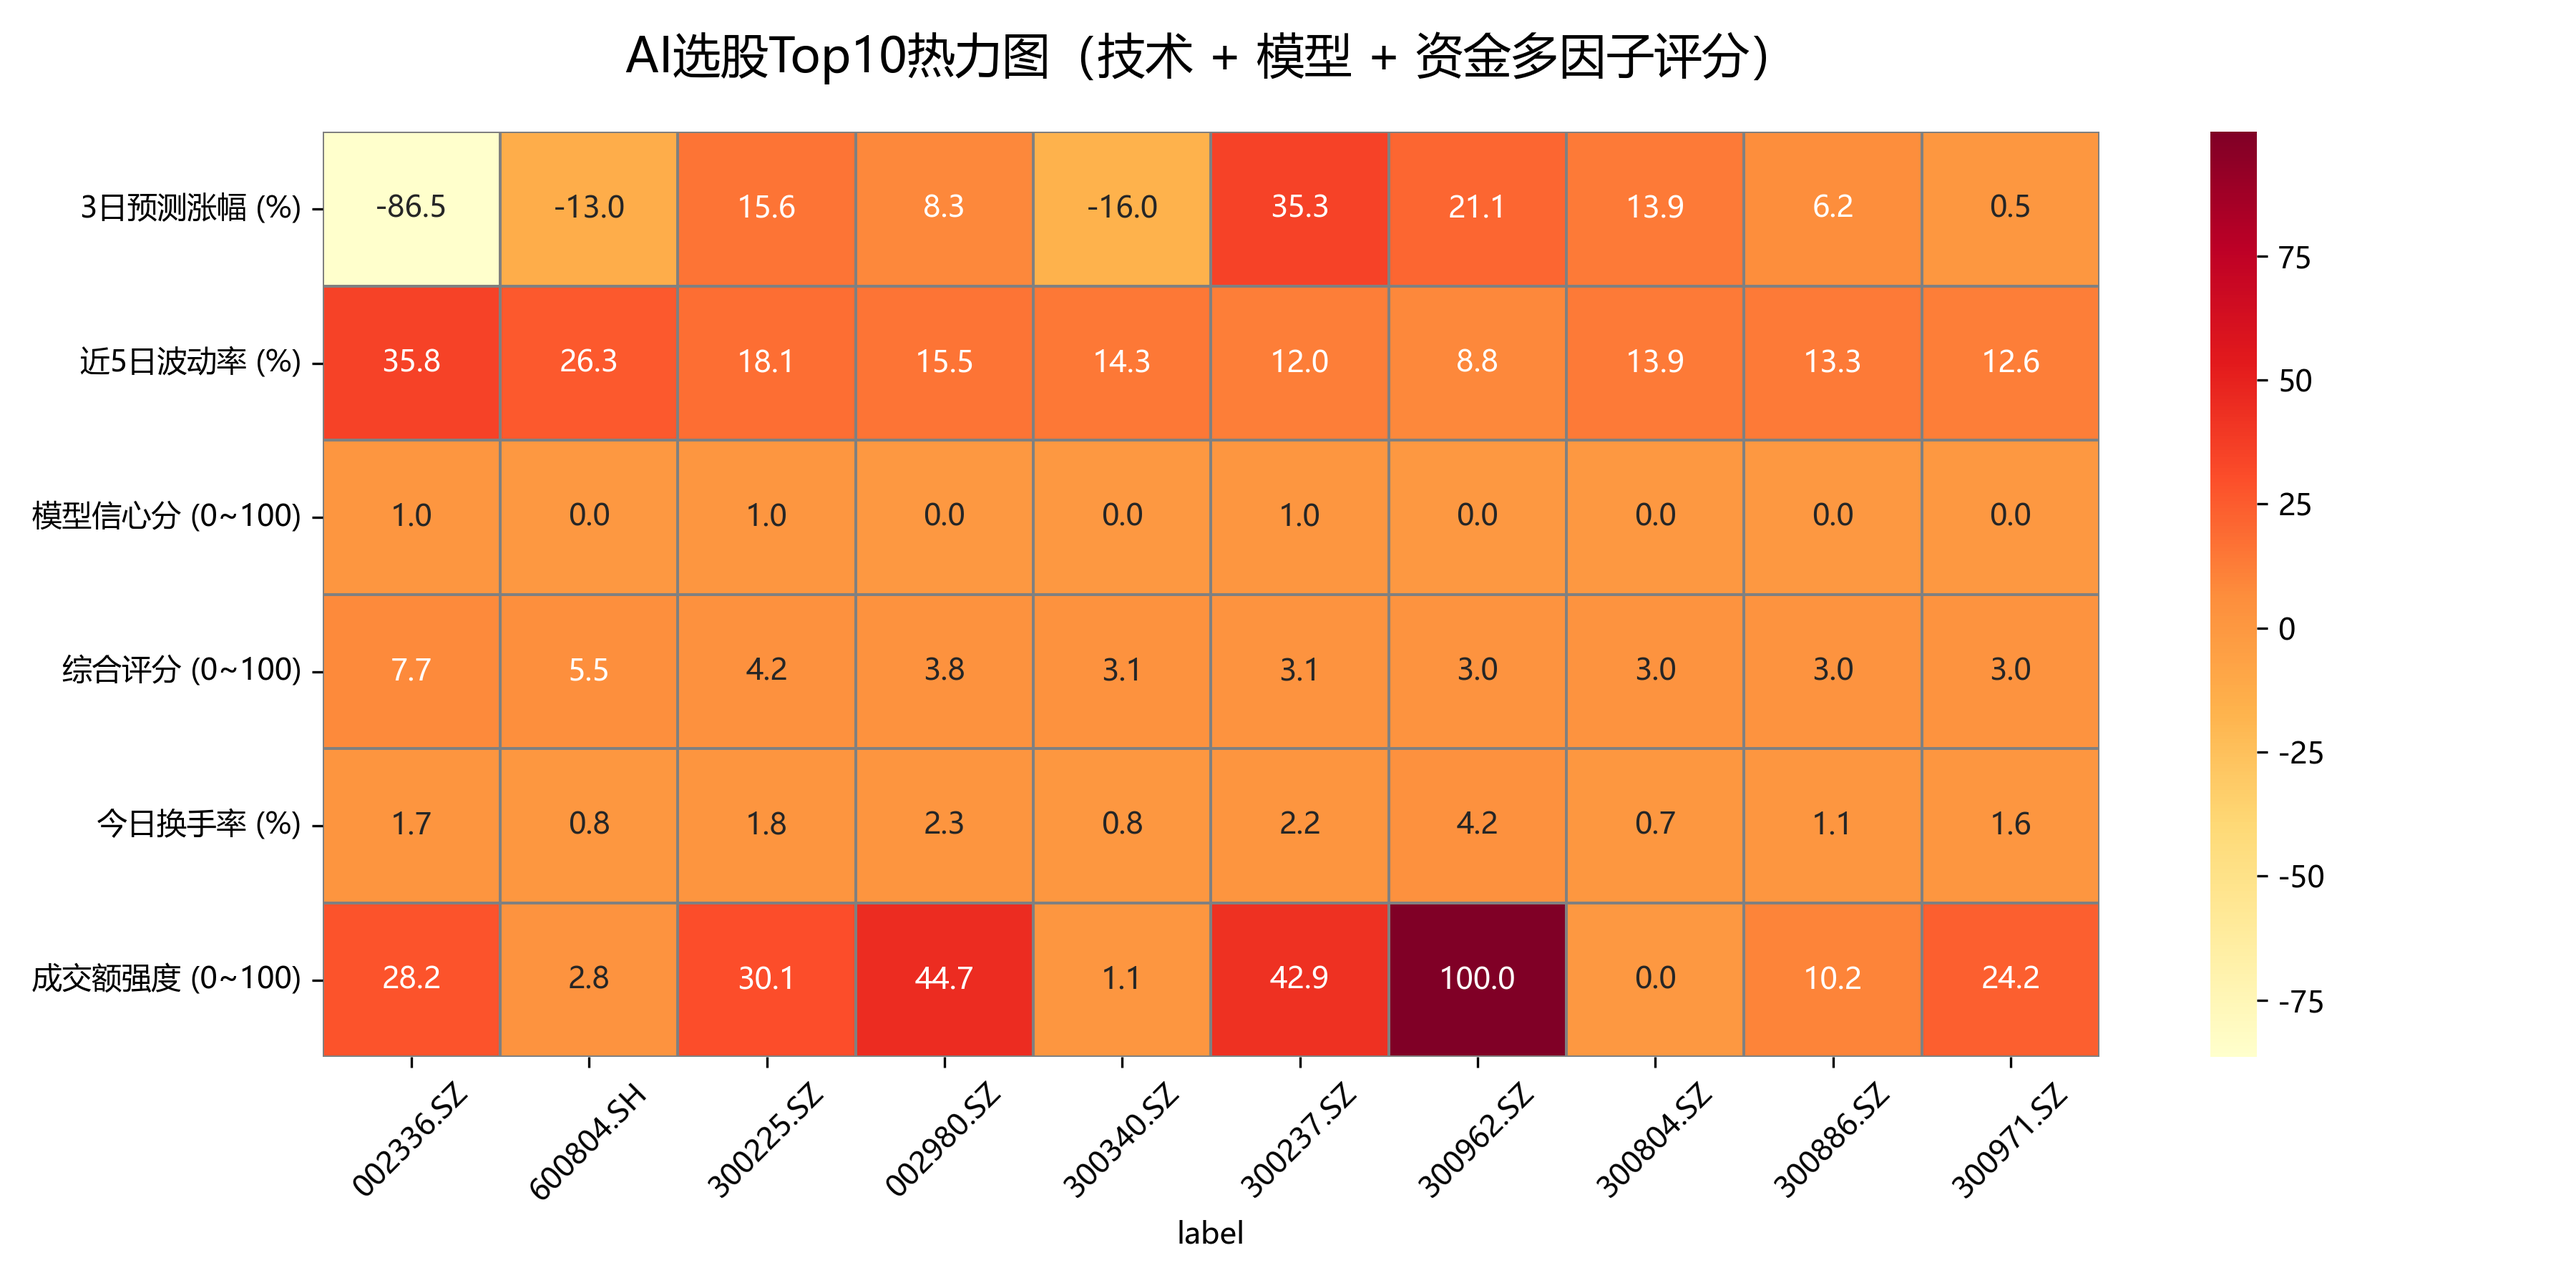
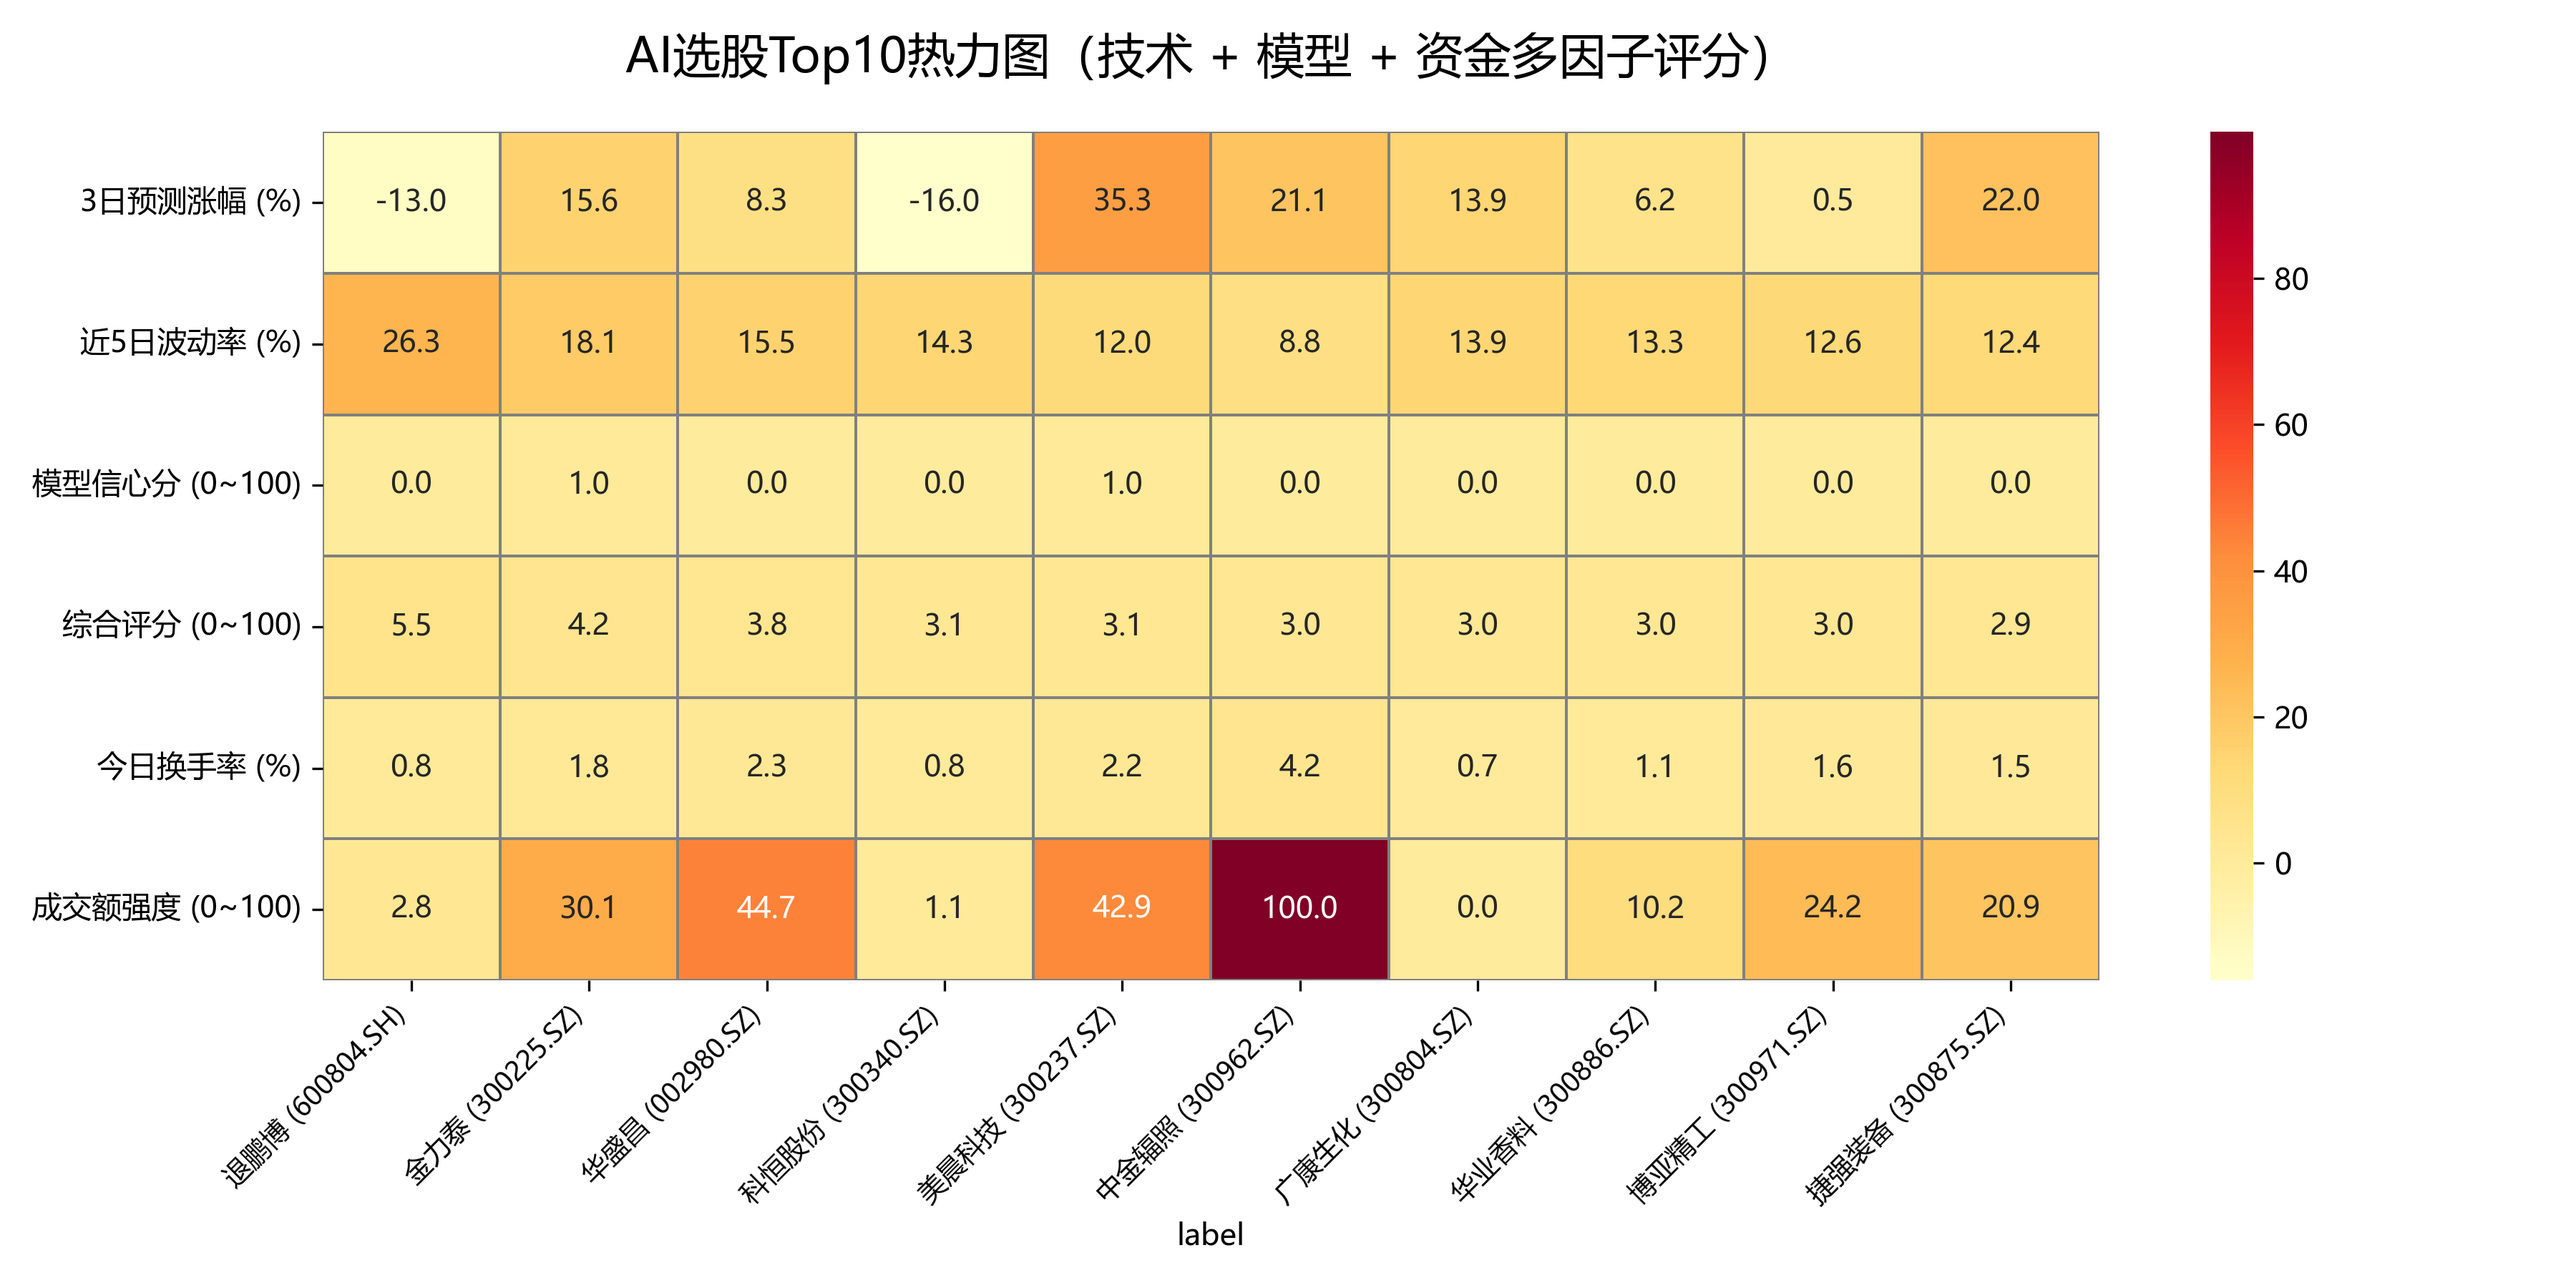
fix: 更新top10热力图展示

diff --git a/funB_multi_factor_ai/plot_top10.py b/funB_multi_factor_ai/plot_top10.py
@@ -12,15 +12,22 @@ def generate_heatmap(csv_path: str, output_dir="top10_outputs", date_str=None):
     os.makedirs(output_dir, exist_ok=True)
     df = pd.read_csv(csv_path)
 
-    df["label"] = df["ts_code"]
+    # 加载股票名称
+    import tushare as ts
+    ts.set_token("d6be033dbd2142b995c5d4b10b32f031a9f42ff8699f9f236f937b4f")
+    pro = ts.pro_api()
+    try:
+        stock_info = pro.stock_basic(exchange='', list_status='L', fields='ts_code,name')
+        name_map = dict(zip(stock_info.ts_code, stock_info.name))
+        df["stock_name"] = df["ts_code"].map(name_map)
+    except Exception as e:
+        print(f"⚠ 获取股票名称失败：{e}")
+        df["stock_name"] = ""
 
     # ========== 多因子字段构造 ==========
-
-    # 技术面
     df["3日预测涨幅 (%)"] = df["return_3"] * 100 if "return_3" in df.columns else 0.0
     df["近5日波动率 (%)"] = df["return_std_5"] * 100 if "return_std_5" in df.columns else 0.0
 
-    # 模型面 ✅ 核心修复：强制数值转换
     if "模型信心分" in df.columns:
         df["模型信心分 (0~100)"] = pd.to_numeric(df["模型信心分"], errors="coerce").fillna(0.0) * 100
     elif "预测概率" in df.columns:
@@ -35,7 +42,6 @@ def generate_heatmap(csv_path: str, output_dir="top10_outputs", date_str=None):
     else:
         df["综合评分 (0~100)"] = 0.0
 
-    # 资金面
     df["今日换手率 (%)"] = df["amount_ratio"] if "amount_ratio" in df.columns else 0.0
     if "amount_ratio" in df.columns:
         amt = df["amount_ratio"]
@@ -54,16 +60,18 @@ def generate_heatmap(csv_path: str, output_dir="top10_outputs", date_str=None):
     ]
 
     # 构建热力图 DataFrame
+    df["label"] = df["ts_code"]
     heatmap_df = df[["label"] + fields_to_show].set_index("label").T
     heatmap_df = heatmap_df.apply(pd.to_numeric, errors="coerce").fillna(0.0)
 
-    # 按综合评分排序
+    # 排序列顺序
     if "综合评分 (0~100)" in heatmap_df.index:
         sorted_cols = heatmap_df.loc["综合评分 (0~100)"].sort_values(ascending=False).index
         heatmap_df = heatmap_df[sorted_cols]
 
-    # 绘图
-    plt.figure(figsize=(1.2 * len(heatmap_df.columns), 6))
+    # 开始绘图
+    fig, ax = plt.subplots(figsize=(1.2 * len(heatmap_df.columns), 6))
+
     sns.heatmap(
         heatmap_df,
         annot=True,
@@ -72,11 +80,17 @@ def generate_heatmap(csv_path: str, output_dir="top10_outputs", date_str=None):
         linewidths=0.5,
         linecolor="gray",
         cbar=True,
-        mask=heatmap_df.isna()
+        mask=heatmap_df.isna(),
+        ax=ax
     )
-    plt.title("AI选股Top10热力图（技术 + 模型 + 资金多因子评分）", fontsize=16, pad=20)
-    plt.xticks(rotation=45)
-    plt.yticks(rotation=0)
+
+    # ✅ 设置 X轴为“名称 (代码)”格式，避免换行错位
+    label_map = dict(zip(df["ts_code"], df["stock_name"]))
+    labels = [f"{label_map.get(code, '')} ({code})" for code in heatmap_df.columns]
+    ax.set_xticklabels(labels, rotation=45, ha="right", fontsize=9)
+
+    ax.set_yticklabels(ax.get_yticklabels(), rotation=0, fontsize=10)
+    ax.set_title("AI选股Top10热力图（技术 + 模型 + 资金多因子评分）", fontsize=16, pad=20)
     plt.tight_layout()
 
     # 保存图像

diff --git a/manual_ui.py b/manual_ui.py
@@ -1,0 +1,62 @@
+import streamlit as st
+import pandas as pd
+import glob
+import os
+import subprocess
+
+st.set_page_config(page_title="Top10 打分系统", layout="wide")
+st.title("🧠 Top10 人工打分 + 持仓确认系统")
+
+# === 1. 获取最新 Top10 文件 ===
+def get_latest_top10():
+    files = glob.glob("datasets/recommended_top10_*.csv")
+    if not files:
+        st.error("未找到 Top10 文件，请先运行 generate_top10.py")
+        st.stop()
+    return max(files, key=os.path.getmtime)
+
+latest_file = get_latest_top10()
+df = pd.read_csv(latest_file)
+
+st.success(f"已加载最新 Top10 文件：{os.path.basename(latest_file)}")
+
+# === 2. 显示股票表格 + 打分框 + ✔确认复选框 ===
+st.write("请为下列股票打分（0~20 分）并勾选你最终想持仓的股票")
+scores = {}
+confirmed = []
+
+for idx, row in df.iterrows():
+    col1, col2, col3, col4 = st.columns([2, 5, 3, 2])
+    with col1:
+        st.write(f"**{row['ts_code']}**")
+    with col2:
+        st.write(f"建议：{row.get('建议', '')} ｜ 模型分：{row.get('模型信心分', '')}")
+    with col3:
+        score = st.slider(f"打分 ({row['ts_code']})", 0, 20, 0, key=row['ts_code'])
+        scores[row['ts_code']] = score
+    with col4:
+        confirm = st.checkbox("✔确认", key="confirm_" + row['ts_code'])
+        if confirm:
+            confirmed.append(row['ts_code'])
+
+# === 3. 提交按钮 ===
+if st.button("✅ 提交并保存 manual_score.csv + confirmed_top.csv"):
+    df_score = pd.DataFrame(list(scores.items()), columns=["ts_code", "manual_score"])
+    df_score.to_csv("manual_score.csv", index=False)
+    st.success("manual_score.csv 已保存 ✅")
+
+    if confirmed:
+        df_confirmed = df[df['ts_code'].isin(confirmed)]
+        df_confirmed.to_csv("confirmed_top.csv", index=False)
+        st.success("confirmed_top.csv（最终确认持仓）已保存 ✅")
+    else:
+        st.warning("未勾选任何确认股票，未生成 confirmed_top.csv")
+
+    if st.checkbox("🚀 同时重新生成 Top10 + 热力图"):
+        cmd = f"python generate_top10.py"
+        with st.spinner("正在重新生成推荐榜与热力图..."):
+            result = subprocess.run(cmd, shell=True, capture_output=True, text=True)
+            st.text(result.stdout)
+            if result.stderr:
+                st.error(result.stderr)
+        st.success("🎉 已完成重新生成！")

diff --git a/funB_multi_factor_ai/generate_top10.py b/funB_multi_factor_ai/generate_top10.py
@@ -16,6 +16,19 @@ def find_latest_prediction_file(folder="datasets"):
 
 def generate_top10(input_path: str, output_path: str):
     df = pd.read_csv(input_path)
+    # ✅ 加入 ST、退市、停牌过滤逻辑（此处插入）
+    import tushare as ts
+    ts.set_token("d6be033dbd2142b995c5d4b10b32f031a9f42ff8699f9f236f937b4f")
+    pro = ts.pro_api()
+    basic_info = pro.stock_basic(exchange='', list_status='L', fields='ts_code,name,list_status')
+    valid_stocks = basic_info[~basic_info['name'].str.contains('ST')]
+    valid_ts_codes = set(valid_stocks['ts_code'])
+    df = df[df['ts_code'].isin(valid_ts_codes)]
+    if 'volume' in df.columns:
+        df = df[df['volume'] > 0]
+    if 'latestPrice' in df.columns:
+        df = df[~df['latestPrice'].isin(['--'])]
+        df = df[df['latestPrice'].notna()]
     # ✅ 过滤掉科创板（688***.SH）和北证（*.BJ）股票，仅保留主板和创业板
     df = df[df["ts_code"].str.match(r"^(000|001|002|300|600)\d{3}\.(SZ|SH)$")]
 
